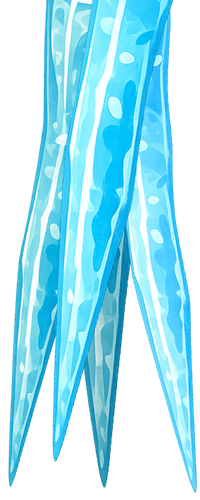
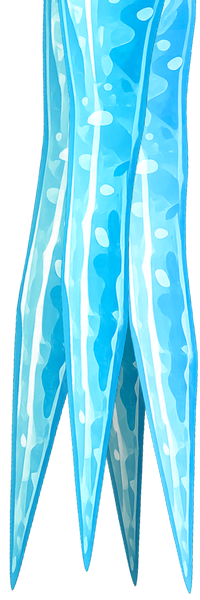
add image and adjust scale

diff --git a/src/main/java/Pors/ObjectInGame/Obstacle/ObstacleView.java b/src/main/java/Pors/ObjectInGame/Obstacle/ObstacleView.java
@@ -62,6 +62,28 @@ public class ObstacleView extends ImageView {
             setFitWidth(200);
             setPreserveRatio(true);
         }
+        else if(Objects.equals(obstacle.getName(), "Obs_3_1"))
+        {
+            setFitWidth(103);
+            setPreserveRatio(true);
+        }
+        else if(Objects.equals(obstacle.getName(), "Obs_3_2"))
+        {
+            //setFitWidth(200);
+            //setFitHeight(400);
+            setFitWidth(125);
+            setFitHeight(250);
+        }
+        else if(Objects.equals(obstacle.getName(), "Obs_3_3"))
+        {
+            setFitWidth(103);
+            setPreserveRatio(true);
+        }
+        else if(Objects.equals(obstacle.getName(), "Obs_3_4"))
+        {
+            setFitWidth(200);
+            setPreserveRatio(true);
+        }
         else
         {
             setFitWidth(60);

diff --git a/src/main/java/Beam/Scene/GameplayScene.java b/src/main/java/Beam/Scene/GameplayScene.java
@@ -239,8 +239,6 @@ public class GameplayScene extends BaseScene {
                         tarPetPosY = Math.max(400,player.getCookie().getLayoutY());
                         pet.getView().setEffect(shadow);
                     }
-
-                    System.out.println(player.getCookie().getLayoutY());
                     pet.setTargetPos(tarPetPosX, tarPetPosY);
                     if(pet.hasArrived()) {
                         pet.updateIndex();
@@ -267,7 +265,6 @@ public class GameplayScene extends BaseScene {
 
                 if (shiftHeld && player.isOnGround()) {
                     player.slide();
-                    System.out.println("slide");
                 }
 
                 //Pew-Pew Pearl And Obstacle
